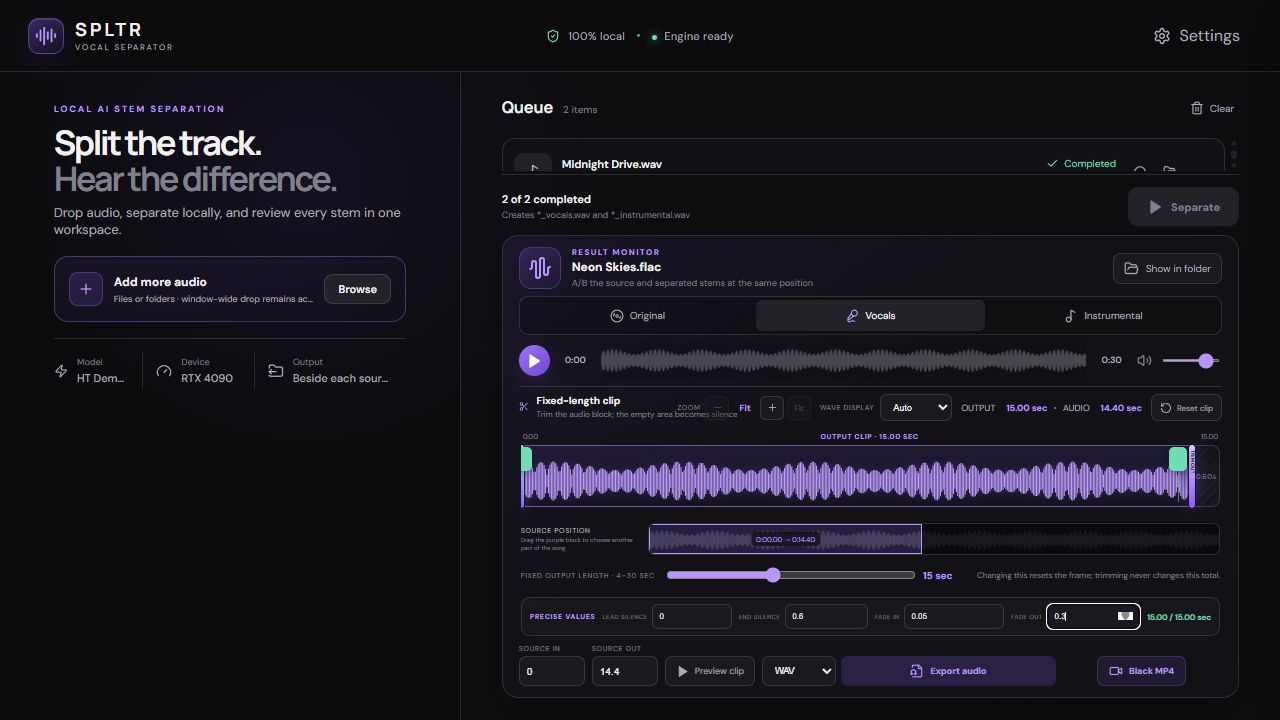
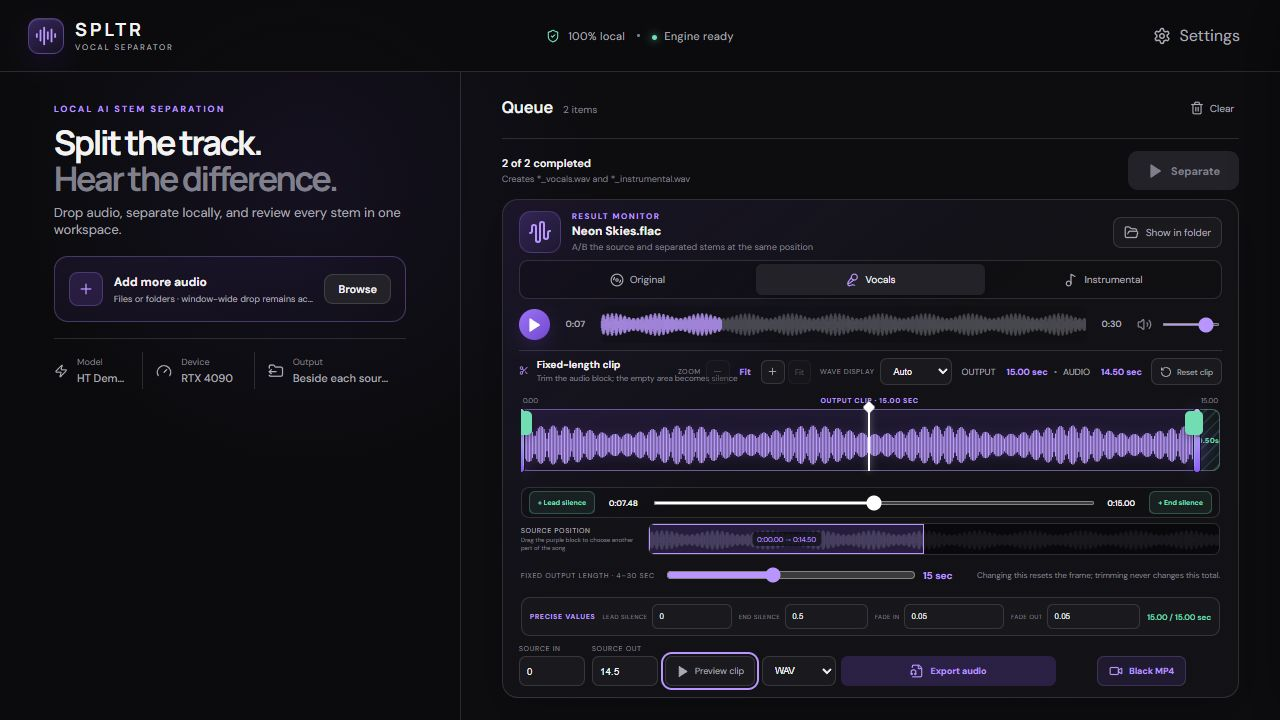
feat: add explicit silence and clip scrubbing

diff --git a/src/components/ResultPlayer.tsx b/src/components/ResultPlayer.tsx
@@ -40,6 +40,13 @@ export function fixedOutputDuration(layout: FixedClipLayout): number {
   return layout.silenceBefore + Math.max(0, layout.sourceEnd - layout.sourceStart) + layout.silenceAfter;
 }
 
+export function sourceTimeForClipPosition(position: number, layout: FixedClipLayout): number | null {
+  const audioDuration = Math.max(0, layout.sourceEnd - layout.sourceStart);
+  const audioPosition = position - layout.silenceBefore;
+  if (audioPosition < 0 || audioPosition > audioDuration) return null;
+  return layout.sourceStart + audioPosition;
+}
+
 export function adjustWaveformPeaks(peaks: number[], gain: WaveformGain): number[] {
   return peaks.map((peak) => {
     const safePeak = Math.min(1, Math.max(0, peak));
@@ -133,7 +140,7 @@ function WaveformTimeline({ peaks, loading, currentTime, duration, displayGain, 
 interface ClipRangeEditorProps {
   peaks: number[];
   loading: boolean;
-  currentTime: number;
+  clipPosition: number;
   duration: number;
   layout: FixedClipLayout;
   outputDuration: number;
@@ -152,6 +159,7 @@ interface ClipRangeEditorProps {
   exportedVideoPath: string | null;
   onLayoutChange: (layout: FixedClipLayout) => void;
   onSeek: (seconds: number) => void;
+  onClipSeek: (seconds: number) => void;
   onPreview: () => void;
   onReset: () => void;
   onStartInput: (value: string) => void;
@@ -171,7 +179,7 @@ type DragTarget = "audio-start" | "audio-end" | "audio-block" | "source-block" |
 function ClipRangeEditor({
   peaks,
   loading,
-  currentTime,
+  clipPosition,
   duration,
   layout,
   outputDuration,
@@ -190,6 +198,7 @@ function ClipRangeEditor({
   exportedVideoPath,
   onLayoutChange,
   onSeek,
+  onClipSeek,
   onPreview,
   onReset,
   onStartInput,
@@ -221,10 +230,8 @@ function ClipRangeEditor({
   const contentPercent = contentDuration / safeOutputDuration * 100;
   const sourceStartPercent = safeDuration > 0 ? layout.sourceStart / safeDuration * 100 : 0;
   const sourceEndPercent = safeDuration > 0 ? layout.sourceEnd / safeDuration * 100 : 0;
-  const playheadOutput = audioStart + currentTime - layout.sourceStart;
-  const playheadPercent = playheadOutput >= audioStart && playheadOutput <= audioEnd
-    ? playheadOutput / safeOutputDuration * 100
-    : -1;
+  const safeClipPosition = Math.min(safeOutputDuration, Math.max(0, clipPosition));
+  const playheadPercent = safeClipPosition / safeOutputDuration * 100;
 
   useEffect(() => {
     const viewport = scrollRef.current;
@@ -340,10 +347,7 @@ function ClipRangeEditor({
 
   function seekFromOutput(event: ReactPointerEvent<HTMLDivElement>) {
     if ((event.target as HTMLElement).closest("[data-trim-control]")) return;
-    const outputTime = outputTimeAt(event.clientX);
-    if (outputTime >= audioStart && outputTime <= audioEnd) {
-      onSeek(layout.sourceStart + outputTime - audioStart);
-    }
+    onClipSeek(outputTimeAt(event.clientX));
   }
 
   function setSilenceBefore(value: number) {
@@ -356,6 +360,14 @@ function ClipRangeEditor({
     const next = Math.min(safeOutputDuration - audioStart - MIN_AUDIO_SECONDS, Math.max(Math.max(0, layout.sourceEnd - safeDuration + layout.silenceAfter), value));
     const delta = next - layout.silenceAfter;
     onLayoutChange({ ...layout, sourceEnd: layout.sourceEnd - delta, silenceAfter: next });
+  }
+
+  function addLeadingSilence() {
+    setSilenceBefore(layout.silenceBefore + 0.1);
+  }
+
+  function addTrailingSilence() {
+    setSilenceAfter(layout.silenceAfter + 0.1);
   }
 
   return (
@@ -444,8 +456,16 @@ function ClipRangeEditor({
         {fadeOutSeconds > 0 && <div className="fade-shade fade-shade-out" style={{ left: `${(audioEnd - fadeOutSeconds) / safeOutputDuration * 100}%`, width: `${fadeOutSeconds / safeOutputDuration * 100}%` }} />}
         <button className="fade-handle fade-in-handle" data-trim-control aria-label="Drag fade in" style={{ left: `${(audioStart + fadeInSeconds) / safeOutputDuration * 100}%` }} onPointerDown={(event) => beginDrag("fade-in", event)} onPointerMove={continueDrag} onPointerUp={endDrag} onPointerCancel={endDrag}><span>FADE IN</span></button>
         <button className="fade-handle fade-out-handle" data-trim-control aria-label="Drag fade out" style={{ left: `${(audioEnd - fadeOutSeconds) / safeOutputDuration * 100}%` }} onPointerDown={(event) => beginDrag("fade-out", event)} onPointerMove={continueDrag} onPointerUp={endDrag} onPointerCancel={endDrag}><span>FADE OUT</span></button>
-        {playheadPercent >= 0 && <div className="clip-playhead" style={{ left: `${playheadPercent}%` }} />}
+        <div className="clip-playhead" style={{ left: `${playheadPercent}%` }}><i /></div>
       </div>
+      </div>
+
+      <div className="clip-scrub-row">
+        <button type="button" className="silence-add" disabled={contentDuration <= MIN_AUDIO_SECONDS} onClick={addLeadingSilence}>+ Lead silence</button>
+        <span className="clip-scrub-time">{preciseTime(safeClipPosition)}</span>
+        <input type="range" min="0" max={safeOutputDuration} step="0.01" value={safeClipPosition} onChange={(event) => onClipSeek(Number(event.target.value))} aria-label="Clip playback position" />
+        <span className="clip-scrub-time">{preciseTime(safeOutputDuration)}</span>
+        <button type="button" className="silence-add" disabled={contentDuration <= MIN_AUDIO_SECONDS} onClick={addTrailingSilence}>+ End silence</button>
       </div>
 
       <div className="source-strip-wrap">
@@ -537,6 +557,7 @@ export function ResultPlayer({ item, disabled, onReveal, onNotice }: ResultPlaye
   const [clipEnd, setClipEnd] = useState("");
   const [presetSeconds, setPresetSeconds] = useState(15);
   const [previewingClip, setPreviewingClip] = useState(false);
+  const [clipPosition, setClipPosition] = useState(0);
   const [silenceBefore, setSilenceBefore] = useState(0);
   const [silenceAfter, setSilenceAfter] = useState(0);
   const [fadeInSeconds, setFadeInSeconds] = useState(0.05);
@@ -593,7 +614,7 @@ export function ResultPlayer({ item, disabled, onReveal, onNotice }: ResultPlaye
   }), [audioFormat, onNotice]);
 
   useEffect(() => {
-    if (previewTimerRef.current !== null) window.clearTimeout(previewTimerRef.current);
+    if (previewTimerRef.current !== null) window.clearInterval(previewTimerRef.current);
     previewTimerRef.current = null;
     resumeTimeRef.current = 0;
     resumePlaybackRef.current = false;
@@ -607,6 +628,7 @@ export function ResultPlayer({ item, disabled, onReveal, onNotice }: ResultPlaye
     setClipEnd("");
     clipInitializedRef.current = false;
     setPresetSeconds(15);
+    setClipPosition(0);
     setSilenceBefore(0);
     setSilenceAfter(0);
     setFadeInSeconds(0.05);
@@ -620,7 +642,7 @@ export function ResultPlayer({ item, disabled, onReveal, onNotice }: ResultPlaye
   }, [item?.id]);
 
   useEffect(() => () => {
-    if (previewTimerRef.current !== null) window.clearTimeout(previewTimerRef.current);
+    if (previewTimerRef.current !== null) window.clearInterval(previewTimerRef.current);
   }, []);
 
   useEffect(() => {
@@ -705,14 +727,15 @@ export function ResultPlayer({ item, disabled, onReveal, onNotice }: ResultPlaye
       const fadeOutGain = fadeOutSeconds > 0
         ? Math.min(1, Math.max(0, (previewRange.end - nextTime) / fadeOutSeconds)) : 1;
       audio.volume = volume * Math.min(fadeInGain, fadeOutGain);
+      setClipPosition(Math.min(presetSeconds - silenceAfter, silenceBefore + nextTime - previewRange.start));
       if (nextTime >= previewRange.end) {
         audio.pause();
         audio.volume = volume;
-        audio.currentTime = previewRange.start;
-        setCurrentTime(previewRange.start);
+        audio.currentTime = previewRange.end;
+        setCurrentTime(previewRange.end);
         clipPreviewRangeRef.current = null;
         if (silenceAfter > 0) {
-          previewTimerRef.current = window.setTimeout(() => finishClipPreview(), silenceAfter * 1000);
+          playSilence(presetSeconds - silenceAfter, presetSeconds, finishClipPreview);
         } else finishClipPreview();
         return;
       }
@@ -726,6 +749,24 @@ export function ResultPlayer({ item, disabled, onReveal, onNotice }: ResultPlaye
     if (previewingClip) cancelClipPreview();
     audio.currentTime = value;
     setCurrentTime(value);
+  }
+
+  function seekClip(value: number) {
+    const audio = audioRef.current;
+    if (!audio) return;
+    if (previewingClip) cancelClipPreview();
+    const nextPosition = Math.min(presetSeconds, Math.max(0, value));
+    setClipPosition(nextPosition);
+    audio.pause();
+    const sourceTime = sourceTimeForClipPosition(nextPosition, clipLayout);
+    if (sourceTime === null) {
+      const boundary = nextPosition < silenceBefore ? clipRange.start : clipRange.end;
+      audio.currentTime = boundary;
+      setCurrentTime(boundary);
+      return;
+    }
+    audio.currentTime = sourceTime;
+    setCurrentTime(sourceTime);
   }
 
   function changeVolume(value: number) {
@@ -777,9 +818,11 @@ export function ResultPlayer({ item, disabled, onReveal, onNotice }: ResultPlaye
     setSilenceAfter(Math.max(0, presetSeconds - (range.end - range.start)));
     setFadeInSeconds(0.05);
     setFadeOutSeconds(0.05);
+    setClipPosition(0);
   }
 
   function applyPresetSeconds(seconds: number) {
+    if (previewingClip) cancelClipPreview();
     setPresetSeconds(seconds);
     const range = clipRangeForPreset(clipRange.start, seconds, duration);
     setClipStart(inputTime(range.start));
@@ -788,6 +831,7 @@ export function ResultPlayer({ item, disabled, onReveal, onNotice }: ResultPlaye
     setSilenceAfter(Math.max(0, seconds - (range.end - range.start)));
     setFadeInSeconds((value) => Math.min(value, (range.end - range.start) / 2));
     setFadeOutSeconds((value) => Math.min(value, (range.end - range.start) / 2));
+    setClipPosition(0);
   }
 
   function changeSourceStart(value: string) {
@@ -833,22 +877,35 @@ export function ResultPlayer({ item, disabled, onReveal, onNotice }: ResultPlaye
       cancelClipPreview();
       return;
     }
+    const startPosition = clipPosition >= presetSeconds ? 0 : clipPosition;
+    const audioEndPosition = presetSeconds - silenceAfter;
     resumeTimeRef.current = range.start;
     setPreviewingClip(true);
+    setClipPosition(startPosition);
     audio.pause();
-    audio.currentTime = range.start;
-    setCurrentTime(range.start);
-    if (silenceBefore > 0) {
-      previewTimerRef.current = window.setTimeout(() => void startClipAudio(audio, range), silenceBefore * 1000);
+    if (startPosition < silenceBefore) {
+      audio.currentTime = range.start;
+      setCurrentTime(range.start);
+      playSilence(startPosition, silenceBefore, () => void startClipAudio(audio, range, range.start));
       return;
     }
-    await startClipAudio(audio, range);
+    if (startPosition < audioEndPosition) {
+      await startClipAudio(audio, range, range.start + startPosition - silenceBefore);
+      return;
+    }
+    audio.currentTime = range.end;
+    setCurrentTime(range.end);
+    playSilence(startPosition, presetSeconds, finishClipPreview);
   }
 
-  async function startClipAudio(audio: HTMLAudioElement, range: { start: number; end: number }) {
+  async function startClipAudio(audio: HTMLAudioElement, range: { start: number; end: number }, sourceTime: number) {
     previewTimerRef.current = null;
     clipPreviewRangeRef.current = range;
-    audio.volume = fadeInSeconds > 0 ? 0 : volume;
+    audio.currentTime = sourceTime;
+    setCurrentTime(sourceTime);
+    const fadeInGain = fadeInSeconds > 0 ? Math.min(1, Math.max(0, (sourceTime - range.start) / fadeInSeconds)) : 1;
+    const fadeOutGain = fadeOutSeconds > 0 ? Math.min(1, Math.max(0, (range.end - sourceTime) / fadeOutSeconds)) : 1;
+    audio.volume = volume * Math.min(fadeInGain, fadeOutGain);
     try {
       await audio.play();
     } catch {
@@ -863,8 +920,28 @@ export function ResultPlayer({ item, disabled, onReveal, onNotice }: ResultPlaye
     setPreviewingClip(false);
   }
 
+  function playSilence(from: number, to: number, onComplete: () => void) {
+    if (previewTimerRef.current !== null) window.clearInterval(previewTimerRef.current);
+    if (to <= from) {
+      setClipPosition(to);
+      onComplete();
+      return;
+    }
+    const startedAt = performance.now();
+    setClipPosition(from);
+    previewTimerRef.current = window.setInterval(() => {
+      const next = Math.min(to, from + (performance.now() - startedAt) / 1000);
+      setClipPosition(next);
+      if (next >= to) {
+        if (previewTimerRef.current !== null) window.clearInterval(previewTimerRef.current);
+        previewTimerRef.current = null;
+        onComplete();
+      }
+    }, 30);
+  }
+
   function cancelClipPreview(pauseAudio = true) {
-    if (previewTimerRef.current !== null) window.clearTimeout(previewTimerRef.current);
+    if (previewTimerRef.current !== null) window.clearInterval(previewTimerRef.current);
     previewTimerRef.current = null;
     clipPreviewRangeRef.current = null;
     const audio = audioRef.current;
@@ -880,11 +957,11 @@ export function ResultPlayer({ item, disabled, onReveal, onNotice }: ResultPlaye
     const range = clipPreviewRangeRef.current;
     audio.volume = volume;
     if (!range) return;
-    audio.currentTime = range.start;
-    setCurrentTime(range.start);
+    audio.currentTime = range.end;
+    setCurrentTime(range.end);
     clipPreviewRangeRef.current = null;
     if (silenceAfter > 0) {
-      previewTimerRef.current = window.setTimeout(() => finishClipPreview(), silenceAfter * 1000);
+      playSilence(presetSeconds - silenceAfter, presetSeconds, finishClipPreview);
     } else finishClipPreview();
   }
 
@@ -1011,7 +1088,7 @@ export function ResultPlayer({ item, disabled, onReveal, onNotice }: ResultPlaye
       <ClipRangeEditor
         peaks={waveform}
         loading={waveformLoading}
-        currentTime={currentTime}
+        clipPosition={clipPosition}
         duration={duration}
         layout={clipLayout}
         outputDuration={presetSeconds}
@@ -1030,6 +1107,7 @@ export function ResultPlayer({ item, disabled, onReveal, onNotice }: ResultPlaye
         exportedVideoPath={exportedVideoPath}
         onLayoutChange={setClipLayout}
         onSeek={seek}
+        onClipSeek={seekClip}
         onPreview={() => void previewClip()}
         onReset={resetClip}
         onStartInput={changeSourceStart}

diff --git a/src/styles.css b/src/styles.css
@@ -220,10 +220,10 @@ button:focus-visible, [role="button"]:focus-visible { outline: 2px solid var(--a
 .clip-range-timeline.loading svg { opacity: .36; animation: waveform-pulse 1.1s ease-in-out infinite alternate; }
 .output-ruler { position: absolute; z-index: 8; top: 0; left: 2px; right: 2px; height: 18px; display: flex; align-items: center; justify-content: space-between; color: var(--muted-2); font-size: 7px; font-variant-numeric: tabular-nums; pointer-events: none; }
 .output-ruler strong { color: var(--accent-2); font-size: 7px; letter-spacing: .65px; }
-.silence-region { position: absolute; z-index: 1; top: 18px; bottom: 1px; overflow: hidden; background: repeating-linear-gradient(135deg, rgba(255,255,255,.025) 0 6px, rgba(255,255,255,.065) 6px 7px); pointer-events: none; }
+.silence-region { position: absolute; z-index: 1; top: 18px; bottom: 1px; overflow: hidden; background: repeating-linear-gradient(135deg, rgba(112,221,179,.055) 0 6px, rgba(112,221,179,.18) 6px 8px); box-shadow: inset 0 0 0 1px rgba(112,221,179,.24); pointer-events: none; }
 .silence-before { left: 0; border-radius: 8px 0 0 8px; }
 .silence-after { right: 0; border-radius: 0 8px 8px 0; }
-.silence-region span { position: absolute; top: 50%; left: 50%; transform: translate(-50%, -50%); white-space: nowrap; color: var(--muted-2); font-size: 7px; letter-spacing: .45px; }
+.silence-region span { position: absolute; top: 50%; left: 50%; transform: translate(-50%, -50%); white-space: nowrap; color: var(--success); font-size: 7px; font-weight: 700; letter-spacing: .45px; }
 .clip-selection-drag { position: absolute; z-index: 3; top: 18px; bottom: 1px; border: 1px solid rgba(185,149,255,.38); background: linear-gradient(180deg, rgba(139,92,246,.14), rgba(139,92,246,.055)); cursor: grab; padding: 0; touch-action: none; }
 .clip-selection-drag:active { cursor: grabbing; background: rgba(139,92,246,.18); }
 .clip-handle { position: absolute; z-index: 9; top: 13px; width: 24px; height: 76px; transform: translateX(-50%); border: 0; background: transparent; color: white; cursor: ew-resize; padding: 0; touch-action: none; }
@@ -237,7 +237,14 @@ button:focus-visible, [role="button"]:focus-visible { outline: 2px solid var(--a
 .fade-handle::after { content: ""; position: absolute; width: 1px; height: 33px; left: 50%; top: 22px; background: rgba(112,221,179,.55); }
 .fade-handle span { display: none; }
 .fade-handle:hover span { display: block; position: absolute; top: -15px; left: 50%; transform: translateX(-50%); padding: 2px 4px; border-radius: 3px; background: #0b1914; color: var(--success); font-size: 6px; white-space: nowrap; }
-.clip-playhead { position: absolute; z-index: 7; top: 18px; bottom: 1px; width: 1px; transform: translateX(-50%); background: rgba(255,255,255,.82); box-shadow: 0 0 5px rgba(255,255,255,.35); pointer-events: none; }
+.clip-playhead { position: absolute; z-index: 11; top: 18px; bottom: 1px; width: 2px; transform: translateX(-50%); background: #fff; box-shadow: 0 0 7px rgba(255,255,255,.55); pointer-events: none; }
+.clip-playhead i { position: absolute; top: -3px; left: 50%; width: 9px; height: 9px; transform: translate(-50%,-35%) rotate(45deg); border-radius: 2px; background: #fff; }
+.clip-scrub-row { height: 31px; display: grid; grid-template-columns: auto 42px minmax(120px, 1fr) 42px auto; align-items: center; gap: 7px; margin: 0 2px 5px; padding: 0 7px; border: 1px solid var(--border); border-radius: 8px; background: rgba(0,0,0,.13); }
+.clip-scrub-row input { width: 100%; height: 4px; accent-color: #fff; cursor: ew-resize; }
+.clip-scrub-time { color: var(--text); font-size: 8px; font-weight: 600; font-variant-numeric: tabular-nums; text-align: center; }
+.silence-add { height: 23px; padding: 0 8px; border: 1px solid rgba(112,221,179,.28); border-radius: 6px; background: rgba(112,221,179,.08); color: var(--success); font-size: 7px; font-weight: 700; cursor: pointer; white-space: nowrap; }
+.silence-add:hover:not(:disabled) { background: rgba(112,221,179,.16); border-color: rgba(112,221,179,.48); }
+.silence-add:disabled { opacity: .35; cursor: not-allowed; }
 .source-strip-wrap { display: grid; grid-template-columns: 118px minmax(0, 1fr); align-items: center; gap: 9px; margin: 3px 2px 5px; }
 .source-strip-label { display: flex; flex-direction: column; gap: 2px; }
 .source-strip-label span { color: var(--muted); font-size: 7px; letter-spacing: .65px; }

diff --git a/src/components/ResultPlayer.test.ts b/src/components/ResultPlayer.test.ts
@@ -1,5 +1,5 @@
 import { describe, expect, it } from "vitest";
-import { adjustWaveformPeaks, clipRangeForPreset, fixedOutputDuration, formatPlayerTime, parseClipRange } from "./ResultPlayer";
+import { adjustWaveformPeaks, clipRangeForPreset, fixedOutputDuration, formatPlayerTime, parseClipRange, sourceTimeForClipPosition } from "./ResultPlayer";
 
 describe("formatPlayerTime", () => {
   it("formats transport time without decimals", () => {
@@ -61,5 +61,13 @@ describe("fixedOutputDuration", () => {
       silenceBefore: 0.1,
       silenceAfter: 0.5,
     })).toBeCloseTo(15, 6);
+  });
+
+  it("maps the clip playhead through silence and audible source time", () => {
+    const layout = { sourceStart: 10, sourceEnd: 24, silenceBefore: 0.25, silenceAfter: 0.75 };
+    expect(sourceTimeForClipPosition(0.1, layout)).toBeNull();
+    expect(sourceTimeForClipPosition(0.25, layout)).toBe(10);
+    expect(sourceTimeForClipPosition(7.25, layout)).toBe(17);
+    expect(sourceTimeForClipPosition(14.5, layout)).toBeNull();
   });
 });

diff --git a/python/spltr_backend/__init__.py b/python/spltr_backend/__init__.py
@@ -1,3 +1,3 @@
 """SPLTR local processing engine."""
 
-__version__ = "0.7.0"
+__version__ = "0.8.0"

diff --git a/docs/INSTALLATION.md b/docs/INSTALLATION.md
@@ -37,7 +37,9 @@ The waveform is generated locally with the bundled FFmpeg. **Wave display** defa
 
 Choose a fixed **Output length** from 4–30 seconds. The large output lane is the final file itself: drag **TRIM IN** or **TRIM OUT** inward and the removed part becomes a visible silence block inside that same duration. Drag the waveform block to move it between leading and trailing silence. The total output length never changes while trimming.
 
-Drag the smaller purple block in **Source position** to choose a different part of the original track without changing the output placement. Green fade-in and fade-out handles move directly over the waveform and can be set independently. Fit, 2×, 4×, 8×, and 16× zoom levels and the precise-value fields provide 0.01-second control. **Preview clip** reproduces the complete fixed frame: leading silence, faded audio, and trailing silence.
+Use **+ Lead silence** or **+ End silence** to add 0.1 seconds explicitly; repeated clicks continue trimming the audio into a clearly hatched silence block. The precise fields can set an exact value. The white clip scrub bar and playhead cover the complete output frame, including silence. Click the output waveform or drag the scrubber, then choose **Preview clip** to play from that exact clip position.
+
+Drag the smaller purple block in **Source position** to choose a different part of the original track without changing the output placement. Green fade-in and fade-out handles move directly over the waveform and can be set independently. Fit, 2×, 4×, 8×, and 16× zoom levels and the precise-value fields provide 0.01-second control. **Preview clip** advances the local playhead through leading silence, faded audio, and trailing silence.
 
 The export controls use the currently selected **Original**, **Vocals**, or **Instrumental** track. Choose **WAV** or **MP3**, then select **Export audio**, or select **Black MP4** for an 854×480 H.264/AAC video. The fixed-duration timeline, silence blocks, and independent fades apply identically to audio and video. Exports follow the configured output destination. Trimmed files use `_clip`; existing files are never overwritten and receive `(1)`, `(2)`, and later suffixes when needed.
 

diff --git a/docs/ARCHITECTURE.md b/docs/ARCHITECTURE.md
@@ -26,6 +26,8 @@ Completed queue items expose their original path and paired stem output paths to
 
 Waveforms are reduced to a compact high-density peak array by asking bundled FFmpeg for low-rate mono float PCM; full audio is never loaded into the React process. The editor stores a source range inside a fixed-duration output frame. Trimming adjusts the source range and converts the remaining frame space into leading or trailing silence; moving the output block only redistributes that silence, while moving the source strip changes the source range. Independent fade handles are constrained to the audible block.
 
+The clip editor maintains an output-relative playhead separately from the source audio element's time. Audible output positions map to the selected source range, while silence positions have no source time. Preview uses a short UI interval during silence and the audio element during audible content, so the same clip playhead advances continuously across both regions and can start from any scrubbed position.
+
 Audio export uses FFmpeg to create 24-bit WAV or 320 kbps MP3 clips. Video export combines the selected track with an 854×480 black color source. Both exporters trim the source first, apply independent fades, delay it by the leading-silence amount, pad it to the fixed output duration, and finally trim to that duration. The same timeline therefore produces matching WAV, MP3, and MP4 lengths. Exports follow the configured destination, use collision-safe names, and run on a background thread.
 
 ## First launch and installer size

diff --git a/README.md b/README.md
@@ -17,6 +17,7 @@ SPLTR is a focused Windows desktop app for separating vocals from music with Dem
 - Real audio waveforms with Auto or 1×/2×/4×/8× display gain that never changes audio volume
 - Fixed 4–30 second output frame with large draggable trim handles and a movable audio block
 - Trimming an edge turns the unused part of that same frame into visible silence instead of extending the export
+- Dedicated lead/end silence buttons and a clip-local scrub bar that can seek through audible and silent regions
 - Separate draggable fade-in/fade-out handles, full-track source positioning, Fit/2×/4×/8×/16× zoom, and 0.01-second fields
 - Selected-track WAV/MP3 clip export and 854×480 black-screen MP4 export
 - Compact add-audio control after files enter the queue, while window-wide drag and drop stays active
